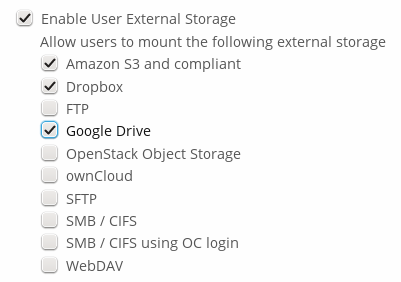
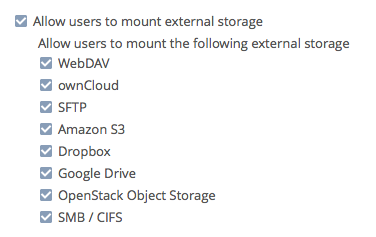
Update the text and image for enabling external storage mounts
This commit updates the text to reflect the current UI after it was
changed in https://github.com/owncloud/core/pull/19863. It also reworks
the surrounding content so that it's more readable.
It fixes #3591.

Changed region(s): [[0.0293, 0.0295, 0.9654, 0.9747]]

diff --git a/admin_manual/configuration/files/external_storage_configuration_gui.rst b/admin_manual/configuration/files/external_storage_configuration_gui.rst
@@ -123,13 +123,14 @@ may provide their own backends, which are not listed here.
 Allow Users to Mount External Storage
 -------------------------------------
 
-Check **Enable User External Storage** to allow your users to mount their own 
-external storage services, and check the backends you want to allow. Beware, as 
-this allows a user to make potentially arbitrary connections to other services 
-on your network!
+Check "*Allow users to mount external storage*" to allow your users to mount storages on external services.
+Then enable the backends you want to allow.
 
 .. figure:: external_storage/images/user_mounts.png
    :alt: Checkboxes to allow users to mount external storage services.
+
+.. warning:: 
+   Be careful with the choices that you enable, as it allows a user to make potentially arbitrary connections to other services on your network!
 
 Setting Up Google Drive and Dropbox Connections
 ~~~~~~~~~~~~~~~~~~~~~~~~~~~~~~~~~~~~~~~~~~~~~~~
